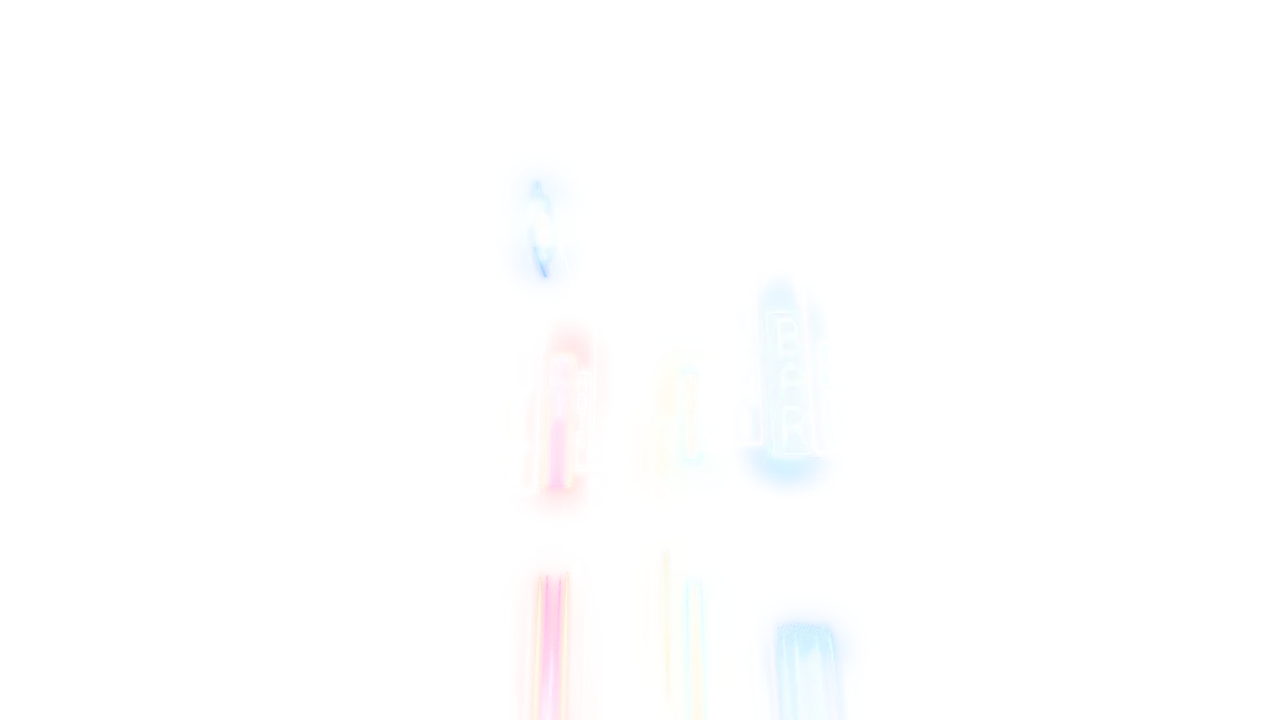
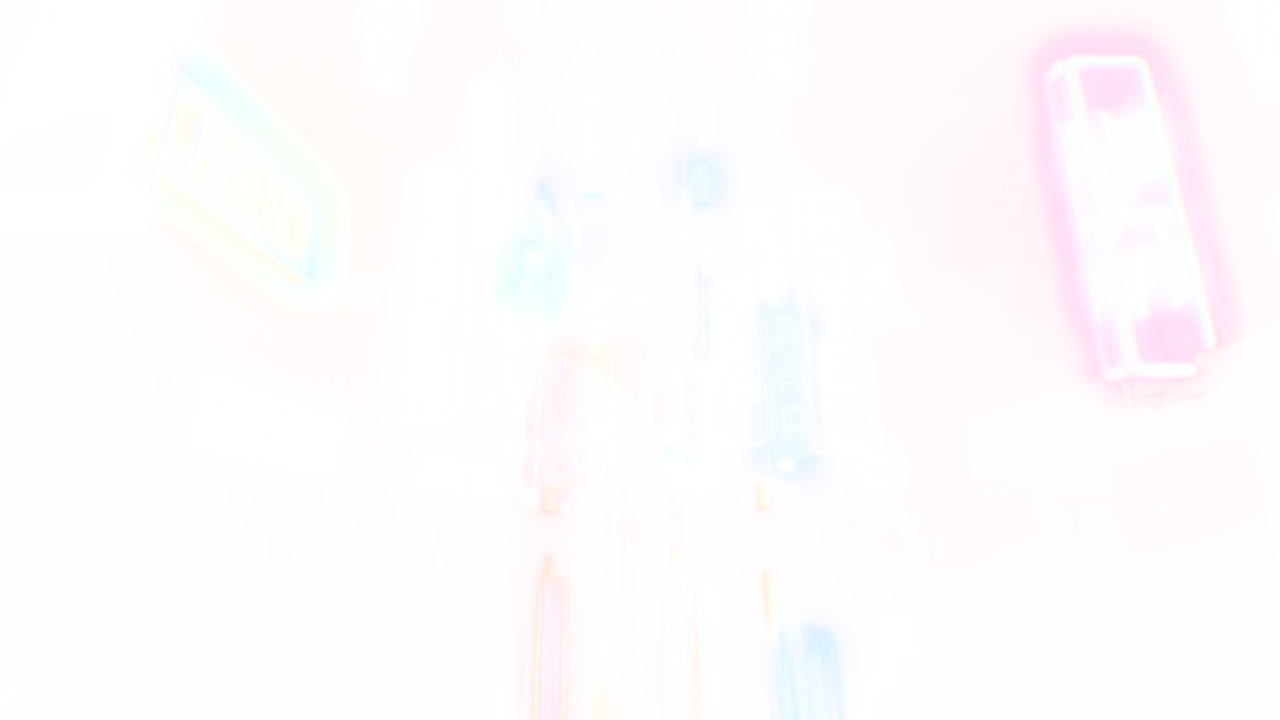
Averse de néons 1.2 : ville plus réaliste et plus cyberpunk, pluie en deux plans
Nouveau rendu de la rue et de la contre-plongée (dessins originaux) : enseignes serrées en tubes et caissons
lumineux à signes inventés, enseignes de boutiques, câbles au-dessus de la rue, carpe holographique, brume
éclairée par les enseignes, vapeur, passants, trottoirs et passage piéton, ronds de pluie dans les flaques.
Pluie proche (premier plan, plus rapide) en plus de la pluie fine, et pluie aussi sur téléphone. Aides posées
sur le fond et note de musique sans pochette rendues lisibles (contraste ≥ 4,5:1 sur les 44 vues).

diff --git a/profils/averse-de-neons/style.css b/profils/averse-de-neons/style.css
@@ -1,7 +1,8 @@
 /* ==========================================================================
-   Profil « Averse de néons » (v1.1) — une ville de nuit sous la pluie, modes Terminal et Sentinelle.
-   Rue-canyon en perspective centrale (enseignes, vitrines, méga-tour dans la brume), reflets sur l'asphalte mouillé,
-   contre-plongée entre les tours ; nuit bleu-violet, néons magenta et cyan, touches d'ambre. Toutes les images sont
+   Profil « Averse de néons » (v1.2) — une ville de nuit sous la pluie, modes Terminal et Sentinelle.
+   Rue-canyon en perspective centrale, serrée d'enseignes (tubes de néon, caissons lumineux à signes inventés), câbles
+   au-dessus de la rue, carpe holographique, brume éclairée, vapeur, passants sous la pluie, trottoirs et asphalte mouillé
+   en miroir ; contre-plongée entre les tours ; nuit bleu-violet, néons magenta et cyan, touches d'ambre. Toutes les images sont
    des dessins ORIGINAUX, rendus une fois (WebGL : lancer de rayons, reflets brillants, brume, flou d'objectif) :
      ville-t / ville-s            la rue sous la pluie (Terminal : violet et magenta ; Sentinelle : bleu, cyan, ambre)
      ville-tel-t / ville-tel-s     version portrait allégée pour le téléphone
@@ -9,7 +10,8 @@
      tours-*, tours-flou-*         contre-plongée entre les tours, nette / floue (mise au point = fondu entre les deux)
      neons-flou-*                  halo des enseignes (calque transparent qui « s'allume »)
      tours-tel-*                   contre-plongée en portrait pour le téléphone
-     pluie, pluie-radiale(-tel)    pluie fine (tuile sans couture) ; gouttes qui tombent vers nous (page de garde)
+     pluie, pluie-proche           pluie en deux plans (tuiles sans couture) : lointaine et fine, proche, plus longue et floue
+     pluie-radiale(-tel)           gouttes qui tombent vers nous (page de garde)
      faisceaux, enseigne-ok, enseigne-alerte
    Enseignes de la page de garde : tubes de néon tracés à la main (HOTEL, RAMEN, SUSHI, BAR, NUIT, CINE, OUVERT, 24/24…).
    Polices : Inter (OFL, licence à la racine) ; titres en Bahnschrift si elle est installée (Windows), sinon Inter.
@@ -67,7 +69,7 @@
   background-attachment: fixed;
 }
 
-/* ---------- 2. Fond : pluie fine, enseignes qui scintillent ---------- */
+/* ---------- 2. Fond : pluie en deux plans, enseignes qui scintillent ---------- */
 :root[data-profile] body { background: transparent; }
 /* deux calques d'enseignes plus vives, alignés sur le fond (même cadrage « cover ») : elles s'allument par moments */
 :root[data-profile]::before, :root[data-profile]::after {
@@ -88,6 +90,14 @@
   transform: rotate(8deg); animation: av-pluie .85s steps(51, jump-none) infinite;
 }
 @keyframes av-pluie { from { transform: rotate(8deg) translateY(-512px); } to { transform: rotate(8deg) translateY(0); } }
+/* pluie proche (premier plan) : traits plus longs et flous, qui tombent plus vite (parallaxe), 33 pas en 0,55 s = 60 images/s */
+:root[data-profile] header::before {
+  content: ""; position: fixed; left: -30vw; top: -50vh; width: 160vw; height: calc(200vh + 768px); z-index: -1; pointer-events: none;
+  opacity: .22; background: url("assets/pluie-proche.webp") 0 0 / 768px 768px repeat;
+  transform: rotate(10deg); animation: av-pluie-proche .55s steps(33, jump-none) infinite;
+}
+@keyframes av-pluie-proche { from { transform: rotate(10deg) translateY(-768px); } to { transform: rotate(10deg) translateY(0); } }
+:root[data-profile] body.gamemode header::before { display: none; }
 /* clin d'œil (2,8 s, dans le coin) : une enseigne « OK » quand tout est résolu, un triangle rouge si critique */
 :root[data-profile] body::after {
   content: ""; position: fixed; right: 22px; bottom: 22px; left: auto; top: auto; width: 150px; height: 150px; z-index: 50;
@@ -162,6 +172,11 @@
 :root[data-profile] .jn-mood, :root[data-profile] .jn-act { color: var(--text); }
 :root[data-profile] .spark-legend { margin-top: 6px; }
 :root[data-profile] .spark-legend span { position: relative; z-index: 1; padding: 0 5px; border-radius: 4px; color: var(--text-2); background: rgba(var(--deep-rgb), .88); }   /* lisible même si une courbe passe dessous */
+:root[data-profile] .cover .ph { color: rgba(var(--neon-rgb), .75); text-shadow: 0 0 18px rgba(var(--neon-rgb), .45); }   /* note de musique sans pochette */
+/* petites aides posées sur le fond de la ville : plaque sombre, lisibles même devant une enseigne vive */
+:root[data-profile] .nx-hint, :root[data-profile] main > .hint, :root[data-profile] main > p.hint {
+  padding: 1px 7px; border-radius: 5px; background: rgba(var(--deep-rgb), .86); -webkit-box-decoration-break: clone; box-decoration-break: clone; }
+:root[data-profile] main > .hint, :root[data-profile] main > p.hint { width: fit-content; max-width: 100%; }
 :root[data-profile] .temp, :root[data-profile] .rate, :root[data-profile] .home-live {
   background: linear-gradient(180deg, rgba(255, 255, 255, .035), transparent 40%), rgba(var(--deep-rgb), .82);
   border: 1px solid rgba(var(--mag-rgb), .26); box-shadow: inset 0 0 18px rgba(0, 0, 0, .35);
@@ -437,11 +452,12 @@
 @keyframes av-flambe { from { opacity: .32; } 30% { opacity: 1; } to { opacity: .9; } }
 @keyframes av-efface { to { opacity: 0; transform: scale(1.06); } }
 
-/* ---------- Téléphone : version allégée (images portrait, pas de pluie ni de scintillement sur le panel) ---------- */
+/* ---------- Téléphone : version allégée (images portrait, une seule pluie, sans scintillement sur le panel) ---------- */
 @media (max-width: 760px) {
   :root[data-profile][data-theme="terminal"] { background: linear-gradient(180deg, rgba(6, 4, 18, .86), rgba(6, 4, 18, .74)), url("assets/ville-tel-t.webp") 50% 50% / cover no-repeat, #07060d; }
   :root[data-profile][data-theme="sentinelle"] { background: linear-gradient(180deg, rgba(3, 6, 16, .86), rgba(3, 6, 16, .74)), url("assets/ville-tel-s.webp") 50% 50% / cover no-repeat, #05080f; }
-  :root[data-profile]::before, :root[data-profile]::after, :root[data-profile] body::before { display: none; }
+  :root[data-profile]::before, :root[data-profile]::after, :root[data-profile] header::before { display: none; }
+  :root[data-profile] body::before { opacity: .2; left: -40vw; width: 180vw; }
   :root[data-profile] .card { box-shadow: 0 0 0 1px rgba(0, 0, 0, .45), 0 10px 24px rgba(0, 0, 0, .5); }
   :root[data-profile] .gauge::before, :root[data-profile] .gauge::after { height: 14px; bottom: 10px; }
   :root[data-profile] .gauge .val { font-size: 26px; }
@@ -466,6 +482,7 @@
   :root[data-profile] *::before, :root[data-profile] *::after { animation: none !important; transition: none !important; }
   :root[data-profile]::before, :root[data-profile]::after, :root[data-profile] body::after, :root[data-profile] #splash::after { display: none !important; }
   :root[data-profile] body::before { transform: rotate(8deg); opacity: .18; }
+  :root[data-profile] header::before { transform: rotate(10deg); opacity: .12; }
   :root[data-profile] #splash::before { opacity: .45; transform: none; }
   :root[data-profile] #splash .sp-glow { opacity: .32; }
   :root[data-profile] body[data-etat] #splash .sp-enter, :root[data-profile] body[data-etat] #splash .sp-tag,

diff --git a/CHANGELOG.md b/CHANGELOG.md
@@ -9,10 +9,13 @@ racine, est la source de vérité ; `outils/release.py` le fait avancer et compl
 ## [Non publié]
 
 ### Ajouté
-- **Profil visuel « Averse de néons »** (v1.1, modes Terminal et Sentinelle) : une ville de nuit sous la pluie. Fond :
-  une rue-canyon en perspective centrale, enseignes verticales, vitrines, véhicules volants et méga-tour lumineuse
-  qui se perd dans une brume bleu-violet, reflets étirés sur l'asphalte mouillé (violet et magenta en Terminal, bleu,
-  cyan et ambre en Sentinelle), pluie fine qui tombe en biais, deux groupes d'enseignes qui scintillent ; cartes en verre fumé à liseré néon, jauges et barres
+- **Profil visuel « Averse de néons »** (v1.2, modes Terminal et Sentinelle) : une ville de nuit sous la pluie. Fond :
+  une rue-canyon en perspective centrale serrée d'enseignes (tubes de néon, caissons lumineux à signes inventés,
+  enseignes de boutiques), câbles tendus au-dessus de la rue, carpe holographique translucide, brume éclairée par les
+  enseignes, vapeur qui monte de la chaussée, passants sous des parapluies, trottoirs et passage piéton, méga-tour à
+  écran géant qui se perd dans une brume bleu-violet, reflets étirés et ronds de pluie dans les flaques (violet et
+  magenta en Terminal, bleu, cyan et ambre en Sentinelle), pluie en deux plans qui tombe en biais (fine au loin, plus
+  longue et plus rapide au premier plan, aussi sur téléphone), deux groupes d'enseignes qui scintillent ; cartes en verre fumé à liseré néon, jauges et barres
   en tubes de néon (couleur selon le niveau, tube rouge qui grésille en critique), alertes en enseignes lumineuses.
   Page de garde : on lève les yeux entre les tours sous la pluie, les enseignes s'allument dans le flou, la mise au
   point se fait, des projecteurs balaient la brume et le logo NEXUS s'allume comme un néon ; au clic, on s'envole
